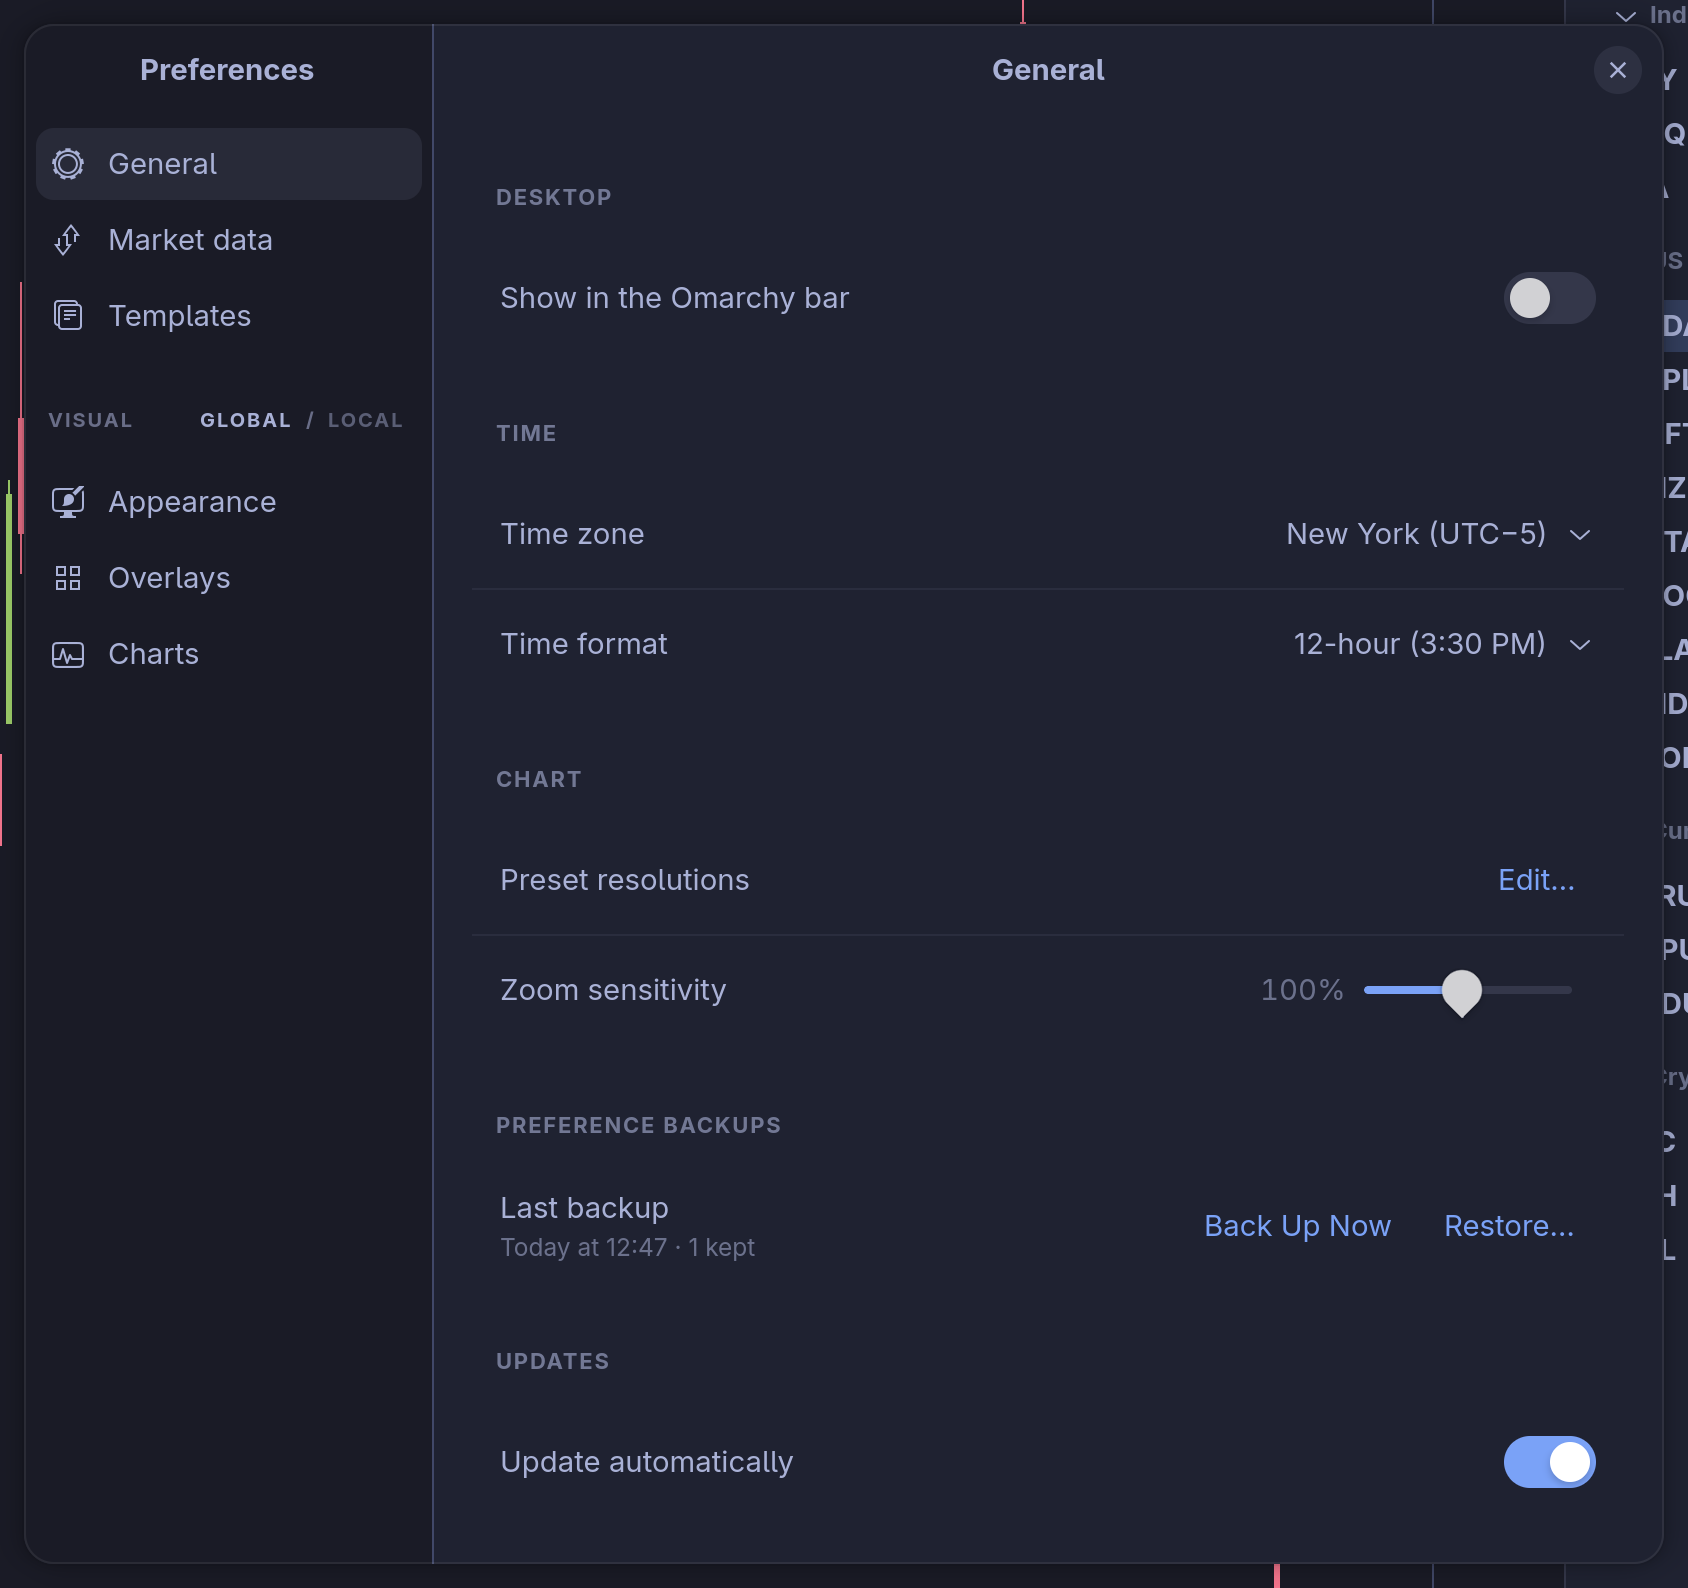
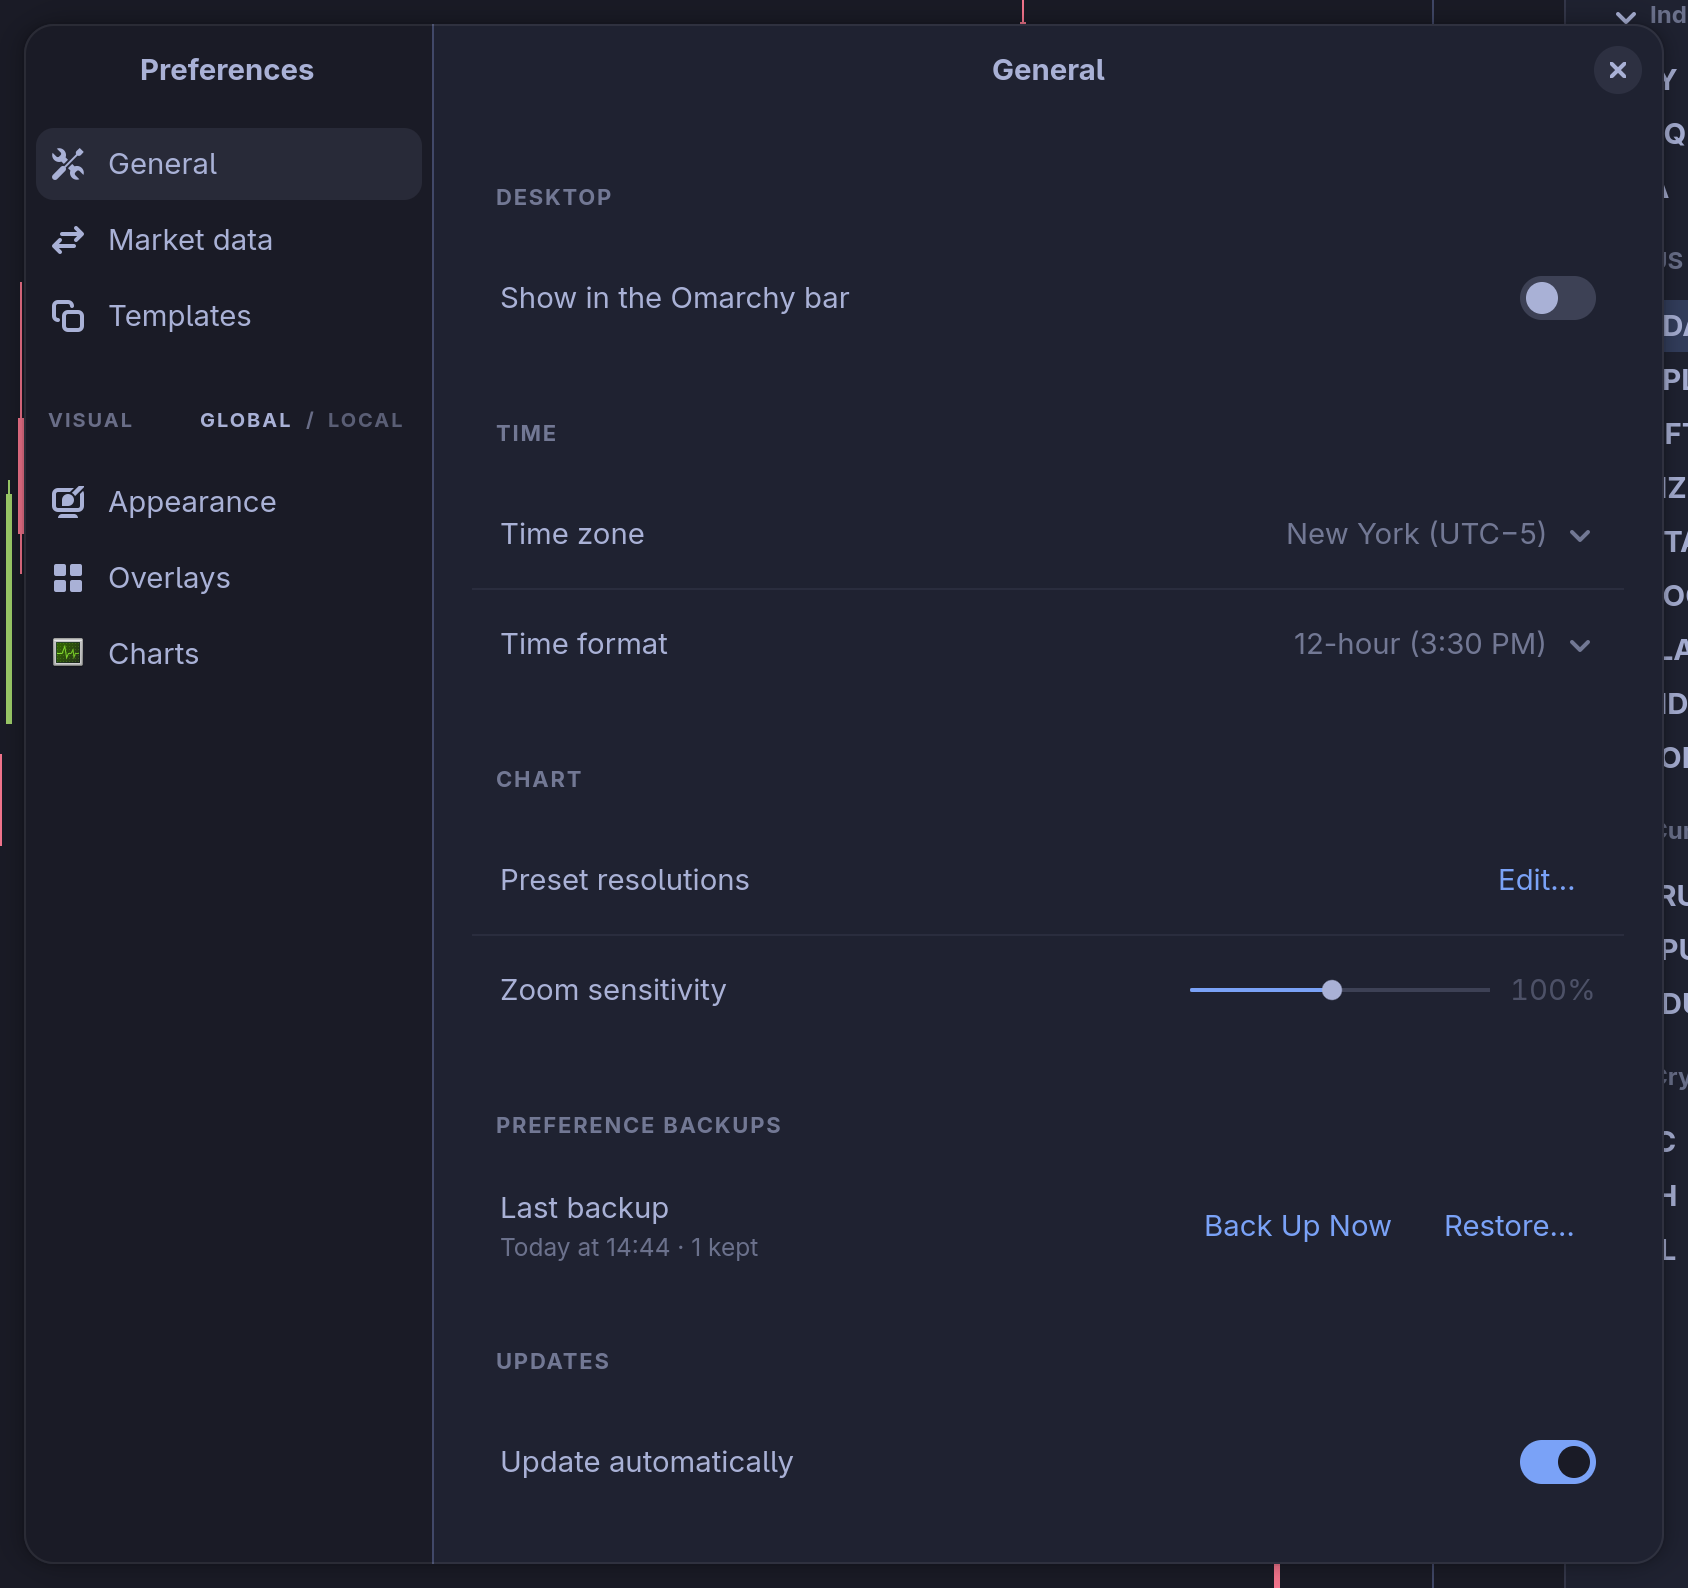
Draw the zoom sensitivity slider as a hairline
A 2px rail, the accent up to a small knob, a tick at 100% and the
value after it in a dropdown's dim, in place of GTK's round knob with a
pointer and a filled track. Let go near 100% and it settles there; the
arrow keys still step through it.

diff --git a/src/ui/preferences.rs b/src/ui/preferences.rs
@@ -386,21 +386,35 @@ fn chart_group(context: &Rc<Context>) -> adw::PreferencesGroup {
 
 /// How far the wheel and a two-finger swipe zoom, for every chart, as a
 /// percentage of the base rate. Read by the charts on every scroll, so a
-/// change is felt on the next one. The mark is where it started.
+/// change is felt on the next one. A hairline slider, its tick where it
+/// started: a pointer that lets go within a step of the tick lands on it,
+/// since halving and doubling are the steps anyone feels, and the keys
+/// still walk every step past it.
 fn zoom_row(context: &Rc<Context>) -> adw::ActionRow {
     use crate::zoom::{DEFAULT, MAX, MIN};
+    const STEP: f64 = 5.0;
     let row = adw::ActionRow::new();
     row.set_title("Zoom sensitivity");
-    let scale = gtk::Scale::with_range(gtk::Orientation::Horizontal, MIN as f64, MAX as f64, 5.0);
-    scale.set_size_request(180, -1);
+    let scale = gtk::Scale::with_range(gtk::Orientation::Horizontal, MIN as f64, MAX as f64, STEP);
+    scale.add_css_class("hairline");
     scale.set_valign(gtk::Align::Center);
     scale.set_draw_value(true);
-    scale.set_value_pos(gtk::PositionType::Left);
+    scale.set_value_pos(gtk::PositionType::Right);
     scale.set_digits(0);
     scale.set_round_digits(0);
     scale.set_format_value_func(|_, v| format!("{v:.0}%"));
-    scale.add_mark(DEFAULT as f64, gtk::PositionType::Bottom, None);
+    scale.add_mark(DEFAULT as f64, gtk::PositionType::Top, None);
     scale.set_value(crate::zoom::sensitivity(&context.store) as f64);
+    scale.connect_change_value(|scale, scroll, value| {
+        let near = (value - DEFAULT as f64).abs() <= STEP;
+        match scroll == gtk::ScrollType::Jump && near {
+            true => {
+                scale.set_value(DEFAULT as f64);
+                glib::Propagation::Stop
+            }
+            false => glib::Propagation::Proceed,
+        }
+    });
     let store = context.store.clone();
     scale.connect_value_changed(move |scale| {
         let percent = scale.value().round() as u32;

diff --git a/src/theming.rs b/src/theming.rs
@@ -976,6 +976,52 @@ viewswitcher button:checked > stack > box.wide { border-bottom-color: @accent_co
 .words button:checked { background: none; color: @window_fg_color; font-weight: 600; }
 .words button:checked:hover { background-color: alpha(@window_fg_color, 0.08); }
 .words label.dot { color: alpha(@window_fg_color, 0.38); }
+/* A setting's slider is a hairline: a 2px rail, the accent up to a small
+   knob, a tick where it started, and its value after it in a dropdown's
+   dim. The trough is the knob's height so all three centre on the rail;
+   the tick is GTK's own mark, set over the trough rather than beside it,
+   and drawn before it, so the knob covers it. */
+scale.hairline { padding: 4px 0; }
+scale.hairline > trough {
+  min-width: 150px;
+  min-height: 10px;
+  margin: 0;
+  padding: 0;
+  border: none;
+  border-radius: 0;
+  box-shadow: none;
+  outline: none;
+  background: linear-gradient(alpha(@window_fg_color, 0.22), alpha(@window_fg_color, 0.22)) center / 100% 2px no-repeat;
+}
+scale.hairline > trough > highlight {
+  min-height: 0;
+  margin: 4px 0;
+  border: none;
+  border-radius: 1px;
+  background: @accent_color;
+}
+scale.hairline > trough > slider {
+  min-width: 10px;
+  min-height: 10px;
+  margin: 0;
+  border: none;
+  border-radius: 50%;
+  box-shadow: none;
+  background: @window_fg_color;
+}
+scale.hairline:focus-visible > trough > slider { outline: 2px solid alpha(@accent_color, 0.5); outline-offset: 1px; }
+scale.hairline > marks.top { margin: 0 0 -10px; }
+scale.hairline > marks > mark > indicator {
+  min-width: 1px;
+  min-height: 10px;
+  background-color: alpha(@window_fg_color, 0.30);
+}
+scale.hairline > value {
+  min-width: 36px;
+  margin: 0 0 0 10px;
+  color: alpha(@window_fg_color, 0.60);
+  font-variant-numeric: tabular-nums;
+}
 
 /* A picker over a chart (see `pick_frame`) is the same surface with no title
    bar: the search box is its top edge, on a hairline, and the chart it will

diff --git a/site/manual/preferences.md b/site/manual/preferences.md
@@ -38,7 +38,7 @@ Appearance, Overlays and Charts sit under the **VISUAL** rule, which says which 
 | Desktop › **Show in the Omarchy bar** | Puts the Omarchy plugin in the bar, or takes it out. The group appears only on an Omarchy desktop. | [Omarchy plugin](/manual/bar-widget/) |
 | Time › **Time zone**, **Time format** | How every chart tells the time. | [Time](#time) |
 | Chart › **Preset resolutions**, **Edit…** | Opens the Resolutions dialog. | [The preset resolutions](/manual/charts/#the-preset-resolutions) |
-| Chart › **Zoom sensitivity** | How far the wheel and a two-finger swipe zoom every chart, from 10% to 200%. 100% by default, where a wheel notch zooms as it always has. | [Moving around](/manual/charts/#moving-around) |
+| Chart › **Zoom sensitivity** | How far the wheel and a two-finger swipe zoom every chart, from 10% to 200%. 100% by default, where a wheel notch zooms as it always has. Dragged near 100%, the slider settles on it; the arrow keys step through it. | [Moving around](/manual/charts/#moving-around) |
 | Preference backups › **Last backup**, **Back Up Now**, **Restore…** | When settings were last backed up, and restoring one. | [Where your data lives](/manual/your-data/) |
 | Updates › **Update automatically** | Downloads new releases in the background, to start at the next launch. On by default. | [Installation](/manual/installing/#updates) |
 
